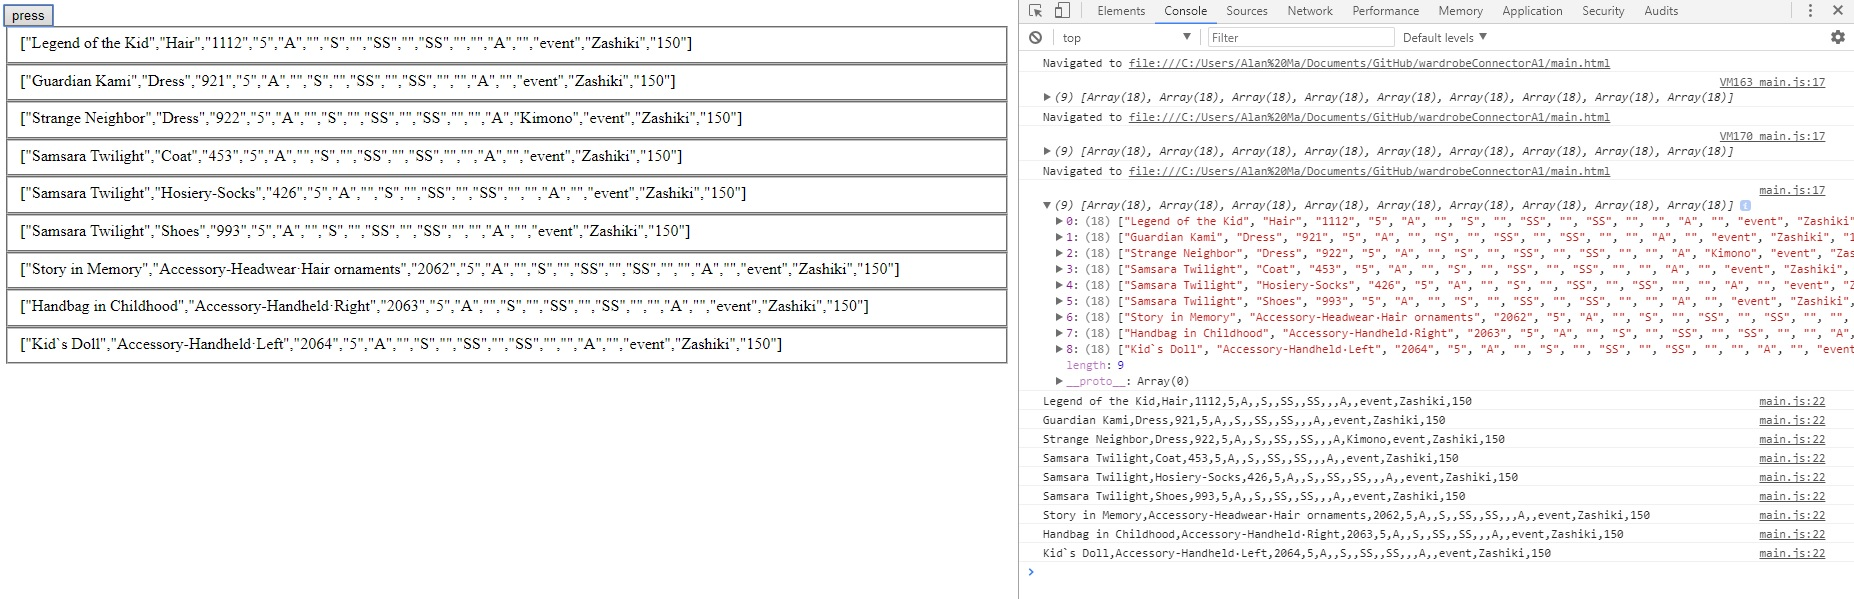
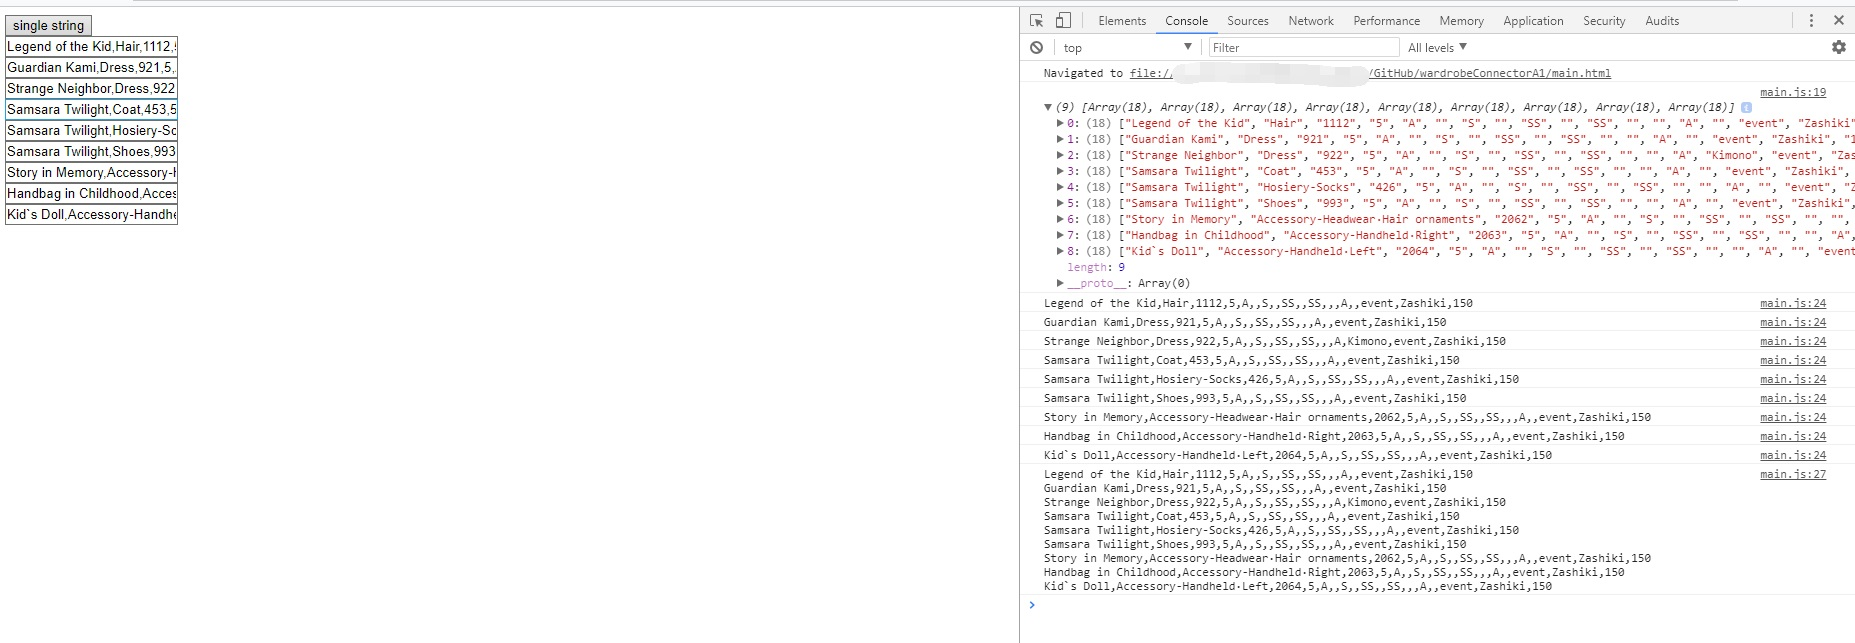
abort excel method

Changed region(s): [[0.0, 0.0, 1.0, 0.9316]]

diff --git a/main.js b/main.js
@@ -1,31 +1,30 @@
 var mainApp = angular.module('mainApp', []);
 
 mainApp.controller('mainCtrl', ['$scope', function($scope) {
-        var test_array =
-        [  ['Legend of the Kid','Hair','1112','5','A','','S','','SS','','SS','','','A','','event','Zashiki','150'],
-          ['Guardian Kami','Dress','921','5','A','','S','','SS','','SS','','','A','','event','Zashiki','150'],
-          ['Strange Neighbor','Dress','922','5','A','','S','','SS','','SS','','','A','Kimono','event','Zashiki','150'],
-          ['Samsara Twilight','Coat','453','5','A','','S','','SS','','SS','','','A','','event','Zashiki','150'],
-          ['Samsara Twilight','Hosiery-Socks','426','5','A','','S','','SS','','SS','','','A','','event','Zashiki','150'],
-          ['Samsara Twilight','Shoes','993','5','A','','S','','SS','','SS','','','A','','event','Zashiki','150'],
-          ['Story in Memory','Accessory-Headwear·Hair ornaments','2062','5','A','','S','','SS','','SS','','','A','','event','Zashiki','150'],
-          ['Handbag in Childhood','Accessory-Handheld·Right','2063','5','A','','S','','SS','','SS','','','A','','event','Zashiki','150'],
-          ['Kid`s Doll','Accessory-Handheld·Left','2064','5','A','','S','','SS','','SS','','','A','','event','Zashiki','150']];
+        var raw_array = [
+            ['Legend of the Kid','Hair','1112','5','A','','S','','SS','','SS','','','A','','event','Zashiki','150'],
+            ['Guardian Kami','Dress','921','5','A','','S','','SS','','SS','','','A','','event','Zashiki','150'],
+            ['Strange Neighbor','Dress','922','5','A','','S','','SS','','SS','','','A','Kimono','event','Zashiki','150'],
+            ['Samsara Twilight','Coat','453','5','A','','S','','SS','','SS','','','A','','event','Zashiki','150'],
+            ['Samsara Twilight','Hosiery-Socks','426','5','A','','S','','SS','','SS','','','A','','event','Zashiki','150'],
+            ['Samsara Twilight','Shoes','993','5','A','','S','','SS','','SS','','','A','','event','Zashiki','150'],
+            ['Story in Memory','Accessory-Headwear·Hair ornaments','2062','5','A','','S','','SS','','SS','','','A','','event','Zashiki','150'],
+            ['Handbag in Childhood','Accessory-Handheld·Right','2063','5','A','','S','','SS','','SS','','','A','','event','Zashiki','150'],
+            ['Kid`s Doll','Accessory-Handheld·Left','2064','5','A','','S','','SS','','SS','','','A','','event','Zashiki','150']
+        ];
             var fname = "IJGResults";
         
-            var csvContent = "data:text/csv;charset=utf-8,";
-            
-console.info(test_array);
-$scope.test_array = test_array;
+            var csvContent = "";
+
+console.info(raw_array);
+$scope.raw_array = raw_array;
         $scope.press = function() {
-            test_array.forEach(function(infoArray, index){
+            raw_array.forEach(function(infoArray, index){
                 dataString = infoArray.join(",");
                 console.log(dataString);
                 csvContent += dataString+ "\n";
             });
-    
-            var encodedUri = encodeURI(csvContent);
-            window.open(encodedUri);
+            console.log(csvContent);
         };
     }]);
 

diff --git a/main.html b/main.html
@@ -8,10 +8,16 @@
 <body ng-app="mainApp" ng-controller="mainCtrl">
     
     <div>
-        <button ng-click="press()">press</button>
+        <button ng-click="press()">single string</button>
     </div>
-    <div>
-        <fieldset ng-repeat="x in test_array">{{x}}</fieldset>
+
+    <div ng-repeat="x in raw_array">
+            <!-- {{name}} -->
+            <input ng-model="x">                         
+    </div>
+
+    <div ng-repeat="x in raw_array">
+        <!-- <input ng-model={{x}}> -->
     </div>
 
 </body>
